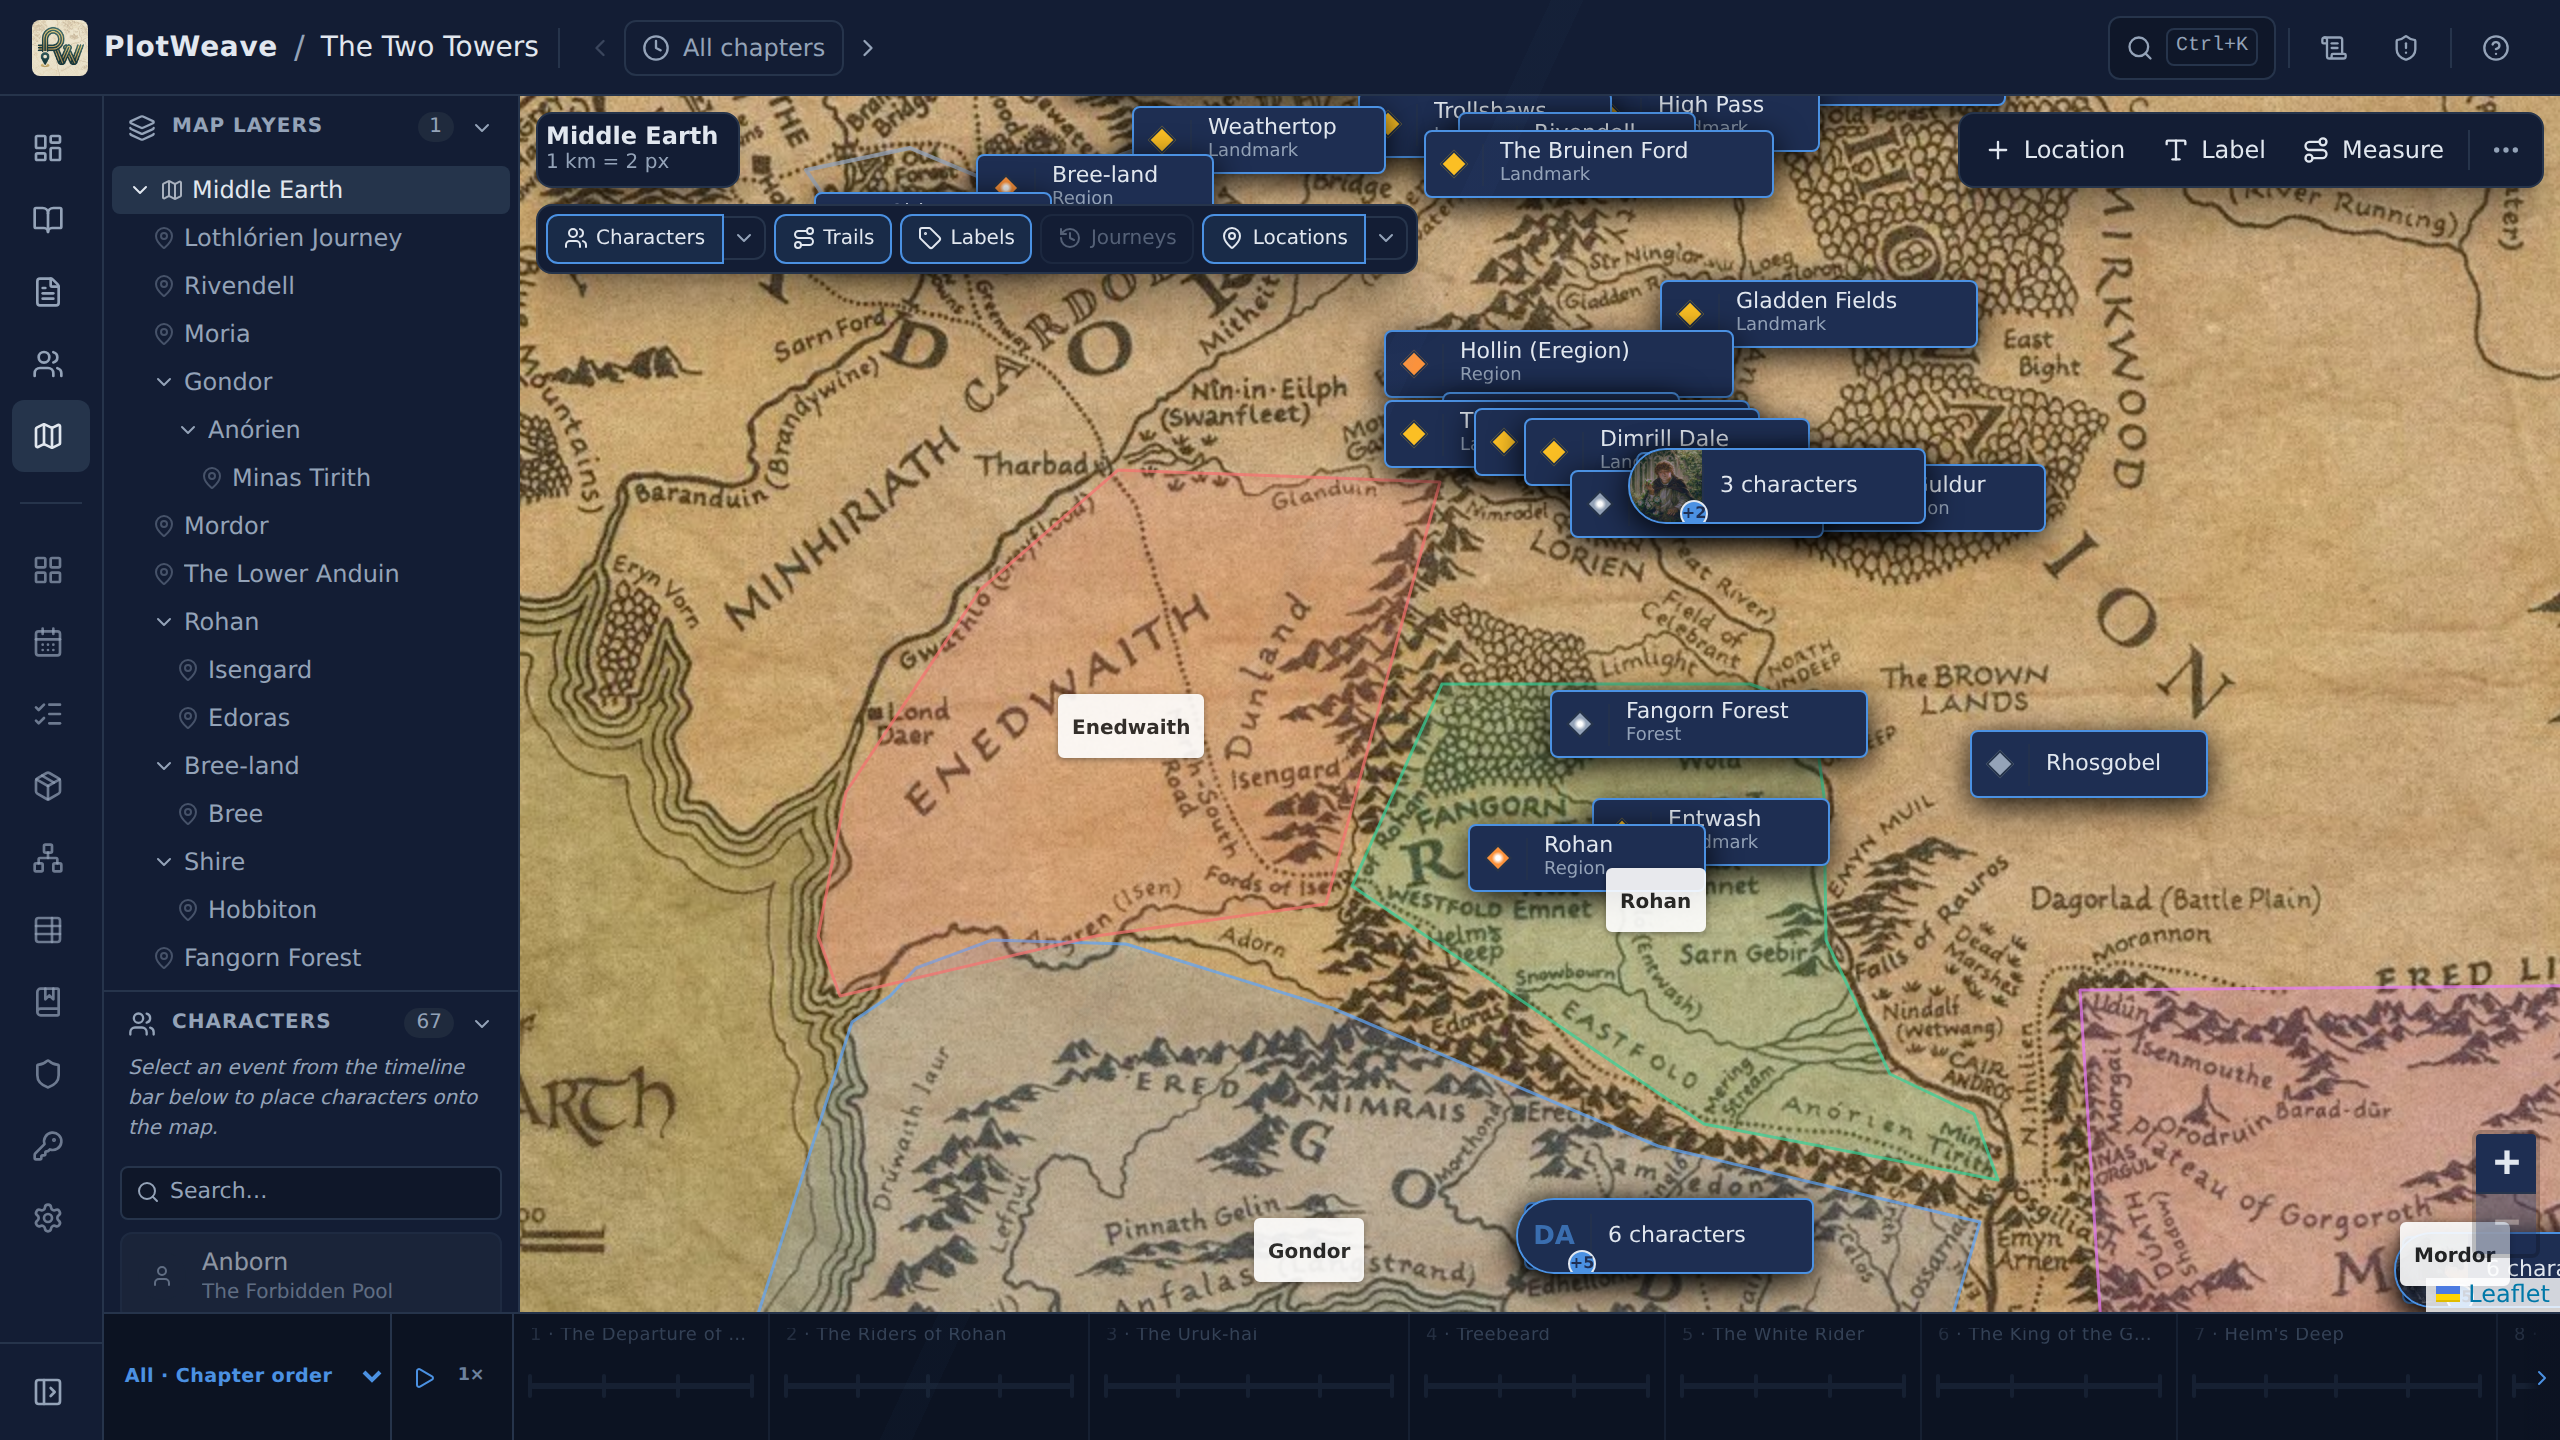
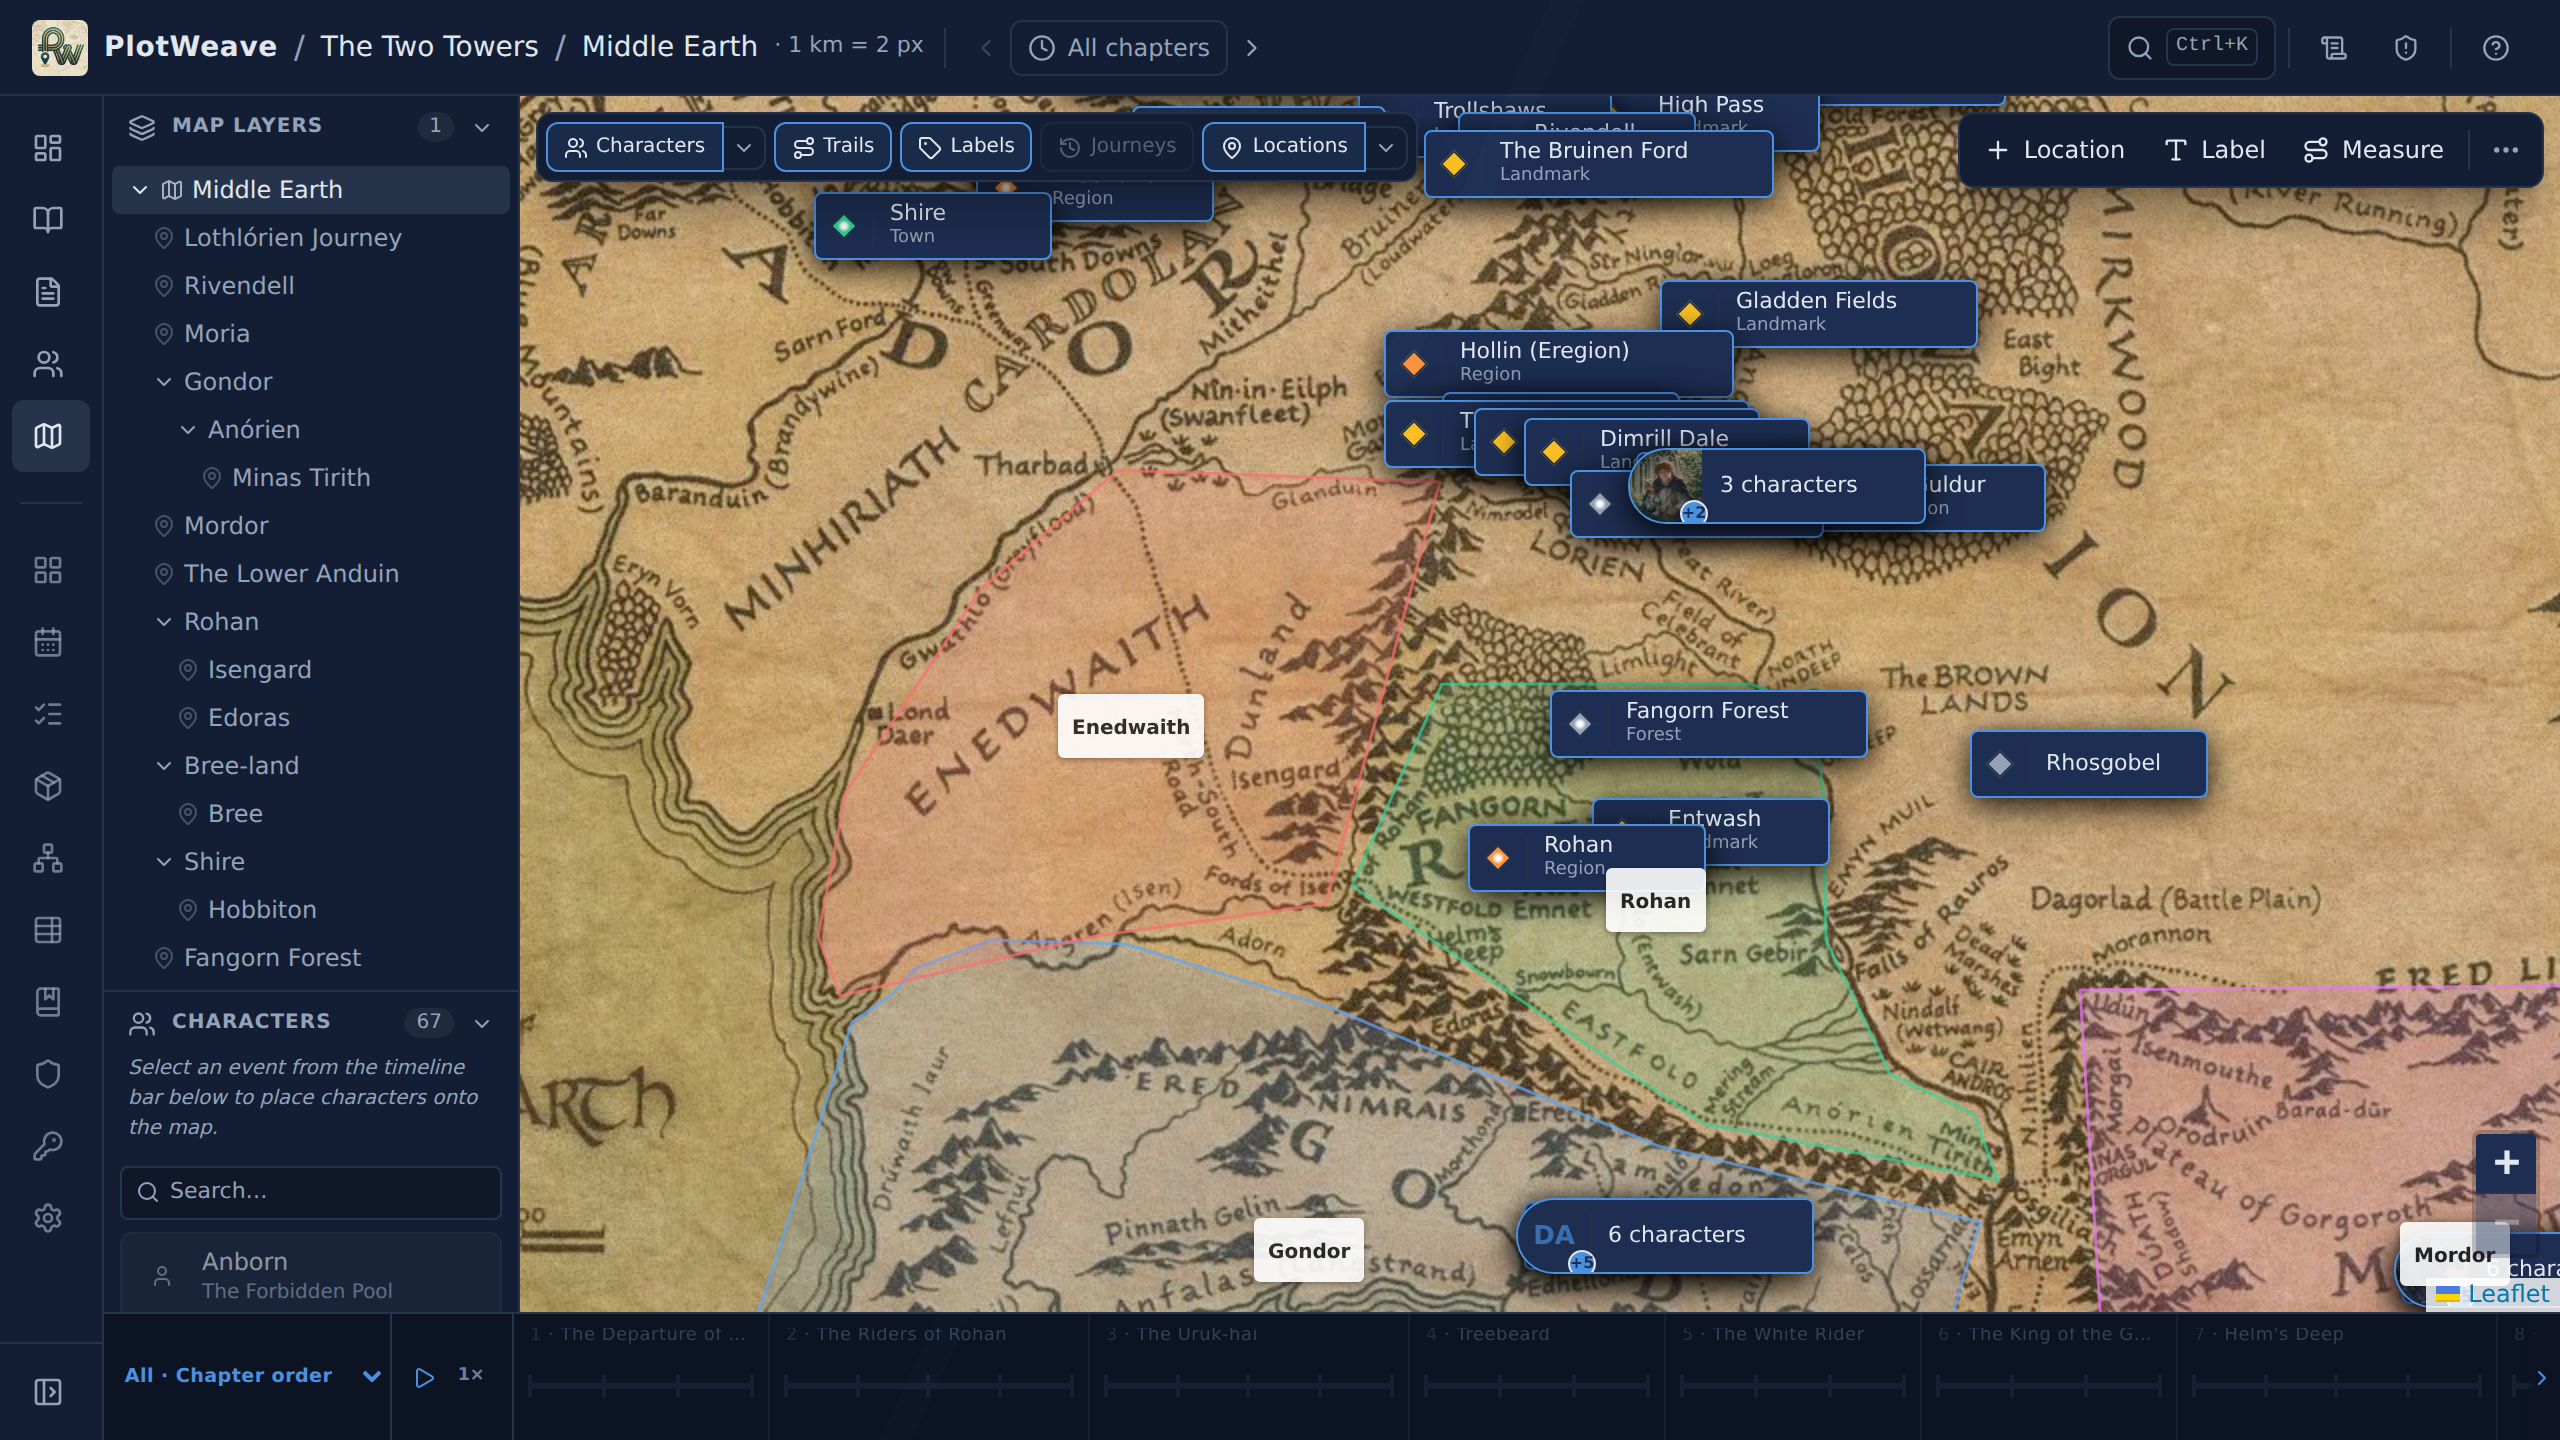
Move the map layer name and scale into the breadcrumb
The floating name chip was the last thing holding a corner of the map
canvas. Which layer is open and its scale belong to the app's location,
not the map surface, so they move into the TopBar breadcrumb:
PlotWeave / world / Middle Earth · 1 km = 2 px.

- The layer segment only renders on the maps route, and the scale
  segment only when the layer is calibrated (xl+, where there is room).
- MapInfoChip is now just the panels-drawer handle, and hides entirely
  on lg+ where the sidebar is a static column — so on desktop nothing
  but the Show chips and the toolbar sit over the canvas.

Also corrects a mistaken note in ROADMAP: a suspected mobile limitation
(an 85vw detail panel hiding the film strip) was measured and does not
occur. The strip draws above the panels, so it stays fully visible;
that note dated from when the panels were briefly raised to z-1120.

Guide and the three map screenshots updated for the breadcrumb.

Claude-Session: https://claude.ai/code/session_012HJuZ3q12imk2q9iq8d945

Changed region(s): [[0.1875, 0.0, 0.5625, 0.2188]]

diff --git a/src/components/TopBar.tsx b/src/components/TopBar.tsx
@@ -1,9 +1,10 @@
 import { useEffect, useState } from 'react'
 import { Search, ScrollText, ShieldAlert, HelpCircle, Menu, X } from 'lucide-react'
 import faviconUrl from '/favicon.png'
-import { useActiveWorldId, useAppStore } from '@/store'
+import { useActiveWorldId, useActiveMapLayerId, useAppStore } from '@/store'
 import { useWorld } from '@/db/hooks/useWorlds'
-import { useNavigate, NavLink } from 'react-router-dom'
+import { useMapLayer } from '@/db/hooks/useMapLayers'
+import { useNavigate, NavLink, useMatch } from 'react-router-dom'
 import { cn } from '@/lib/utils'
 import { TimeCursor } from './TimeCursor'
 import { navItems } from './navItems'
@@ -95,6 +96,14 @@ export function TopBar() {
   const navigate = useNavigate()
   const { setSearchOpen, setBriefOpen, setCheckerOpen, setHelpOpen } = useAppStore()
   const [navOpen, setNavOpen] = useState(false)
+  // On the map, the breadcrumb carries which layer is open and its scale, so
+  // the canvas doesn't have to give up a corner to a floating name chip.
+  const onMaps = !!useMatch('/worlds/:worldId/maps')
+  const activeMapLayerId = useActiveMapLayerId()
+  const mapLayer = useMapLayer(onMaps ? activeMapLayerId : null)
+  const mapScale = mapLayer?.scalePixelsPerUnit && mapLayer.scaleUnit
+    ? `1 ${mapLayer.scaleUnit} = ${Math.round(mapLayer.scalePixelsPerUnit)} px`
+    : null
 
   return (
     <header className="flex h-12 shrink-0 items-center gap-2 border-b border-[hsl(var(--border))] bg-[hsl(var(--card))] px-3 sm:px-4">
@@ -123,6 +132,22 @@ export function TopBar() {
           <>
             <span aria-hidden="true" className="hidden text-[hsl(var(--muted-foreground))] lg:inline">/</span>
             <span className="hidden max-w-[120px] truncate text-sm text-[hsl(var(--foreground))] lg:inline" title={world.name}>{world.name}</span>
+          </>
+        )}
+        {world && mapLayer && (
+          <>
+            <span aria-hidden="true" className="hidden text-[hsl(var(--muted-foreground))] lg:inline">/</span>
+            <span
+              className="hidden max-w-[160px] truncate text-sm text-[hsl(var(--foreground))] lg:inline"
+              title={mapScale ? `${mapLayer.name} — ${mapScale}` : mapLayer.name}
+            >
+              {mapLayer.name}
+            </span>
+            {mapScale && (
+              <span className="hidden shrink-0 text-[11px] text-[hsl(var(--muted-foreground))] xl:inline">
+                · {mapScale}
+              </span>
+            )}
           </>
         )}
         {world && worldId && (

diff --git a/src/features/maps/MapToolbar.tsx b/src/features/maps/MapToolbar.tsx
@@ -217,34 +217,23 @@ export function MapToolbar({
 }
 
 /**
- * Map identity, floated top-left. Replaces the old header row's name/scale
- * block — the sidebar already highlights the active layer, so this stays small.
+ * The drawer handle for the map's side panels, floated top-left on phones.
+ *
+ * Which layer is open and its scale live in the TopBar breadcrumb on `lg`+, so
+ * nothing but this button needs to sit on the canvas; below `lg` the breadcrumb
+ * is hidden and the sidebar drawer carries the layer name instead.
  */
-export function MapInfoChip({
-  layer, onOpenPanels,
-}: {
-  layer: MapLayer
-  onOpenPanels: () => void
-}) {
-  const hasScale = !!layer.scalePixelsPerUnit && !!layer.scaleUnit
+export function MapInfoChip({ onOpenPanels }: { onOpenPanels: () => void }) {
   return (
-    <div className={cn('pointer-events-auto flex items-center gap-2 py-1 pl-1 pr-2.5', FLOAT_PANEL)}>
+    <div className={cn('pointer-events-auto p-1 lg:hidden', FLOAT_PANEL)}>
       <button
         onClick={onOpenPanels}
         aria-label="Open map panels"
         title="Map panels"
-        className="pw-tap flex h-7 w-7 shrink-0 items-center justify-center rounded-md text-[hsl(var(--muted-foreground))] transition-colors hover:bg-[hsl(var(--muted))] hover:text-[hsl(var(--foreground))] lg:hidden"
+        className="pw-tap flex h-7 w-7 shrink-0 items-center justify-center rounded-md text-[hsl(var(--muted-foreground))] transition-colors hover:bg-[hsl(var(--muted))] hover:text-[hsl(var(--foreground))]"
       >
         <PanelLeft className="h-4 w-4" aria-hidden="true" />
       </button>
-      <div className="min-w-0">
-        <p className="truncate text-xs font-semibold leading-tight text-[hsl(var(--foreground))]">{layer.name}</p>
-        <p className="truncate text-[10px] leading-tight text-[hsl(var(--muted-foreground))]">
-          {hasScale
-            ? `1 ${layer.scaleUnit} = ${Math.round(layer.scalePixelsPerUnit!)} px`
-            : `${layer.imageWidth} × ${layer.imageHeight}`}
-        </p>
-      </div>
     </div>
   )
 }

diff --git a/e2e/mapControls.spec.ts b/e2e/mapControls.spec.ts
@@ -61,8 +61,31 @@ test('the canvas starts at the top of the map region, with controls floating ove
   // The two commands used while working a map are on the surface…
   await expect(page.getByRole('button', { name: 'Location', exact: true })).toBeVisible()
   await expect(page.getByRole('button', { name: 'Label', exact: true })).toBeVisible()
-  // …and the map's identity is a floating chip rather than a header row.
-  await expect(page.getByText('Middle Earth').last()).toBeVisible()
+  // …and the map's identity moved to the TopBar breadcrumb, so the canvas
+  // doesn't give up a corner to a name chip.
+  await expect(page.getByRole('banner').getByText('Middle Earth')).toBeVisible()
+})
+
+test('the breadcrumb names the open map layer and its scale', async ({ page }) => {
+  test.setTimeout(120000)
+  await setupMap(page)
+
+  const banner = page.getByRole('banner')
+  await expect(banner.getByText('Middle Earth')).toBeVisible()
+  // No scale set yet, so no scale segment.
+  await expect(banner.getByText(/= \d+ px/)).toHaveCount(0)
+
+  await page.evaluate(async () => {
+    const db = (window as { __pwdb?: any }).__pwdb
+    const layers = await db.mapLayers.toArray()
+    await db.mapLayers.update(layers[0].id, { scalePixelsPerUnit: 4, scaleUnit: 'km' })
+  })
+  await expect(banner.getByText('· 1 km = 4 px')).toBeVisible()
+
+  // It is scoped to the map: leaving the view drops the layer segment.
+  await page.getByRole('link', { name: /characters/i }).first().click()
+  await settleNav(page)
+  await expect(banner.getByText('Middle Earth')).toHaveCount(0)
 })
 
 test('rare map commands live behind the overflow menu', async ({ page }) => {
@@ -285,5 +308,5 @@ test('Measure surfaces only once the map has a scale', async ({ page }) => {
   })
 
   await expect(page.getByRole('button', { name: 'Measure' })).toBeVisible()
-  await expect(page.getByText('1 km = 4 px')).toBeVisible()
+  await expect(page.getByRole('banner').getByText('· 1 km = 4 px')).toBeVisible()
 })

diff --git a/src/features/maps/MapExplorerView.tsx b/src/features/maps/MapExplorerView.tsx
@@ -701,7 +701,7 @@ function MapView({ worldId, layerId }: { worldId: string; layerId: string }) {
             )}
           >
             <div className="flex min-w-0 max-w-full flex-col items-start gap-2">
-              <MapInfoChip layer={layer} onOpenPanels={() => setSidebarOpen(true)} />
+              <MapInfoChip onOpenPanels={() => setSidebarOpen(true)} />
               <MapFilterBar filters={mapFilters} characters={characters} onChange={setMapFilters} />
             </div>
             <MapToolbar

diff --git a/ROADMAP.md b/ROADMAP.md
@@ -540,8 +540,12 @@ What genuinely remains, ranked by value per effort:
     them), and the controls go click-through while placing or drawing so the
     canvas underneath stays reachable — with **Escape** added as the way out of
     every canvas-click mode.
-  - Follow-ups left open: move the map name into the TopBar breadcrumb; on
-    phones an open detail panel (85vw) still hides most of the film strip.
+  - The map name and scale then moved into the **TopBar breadcrumb**
+    (*PlotWeave / world / layer · 1 km = 2 px*), so the canvas gives up no
+    corner at all; on phones the floating chip is just the panels-drawer
+    handle. A suspected mobile limitation — an 85vw detail panel hiding the
+    film strip — was measured and does not occur: the strip draws above the
+    panels, so it stays fully visible.
 - [ ] **Proactive travel-day suggestion** — a per-event "suggest travelDays"
   affordance before any violation (the reactive one-click fix already exists).
 - [ ] **Export scope by scene status** — a `final`/`revised`-only filter for the

diff --git a/docs/GUIDE.md b/docs/GUIDE.md
@@ -639,7 +639,9 @@ images to a canvas — uploaded maps always export.)
 
 The map's own controls **float over the canvas** rather than sitting in header
 rows above it, so the map itself runs from the top of the view to the chapter
-bar. Top-left is the map's name and scale, with the **Show** chips beneath it —
+bar. Which layer is open — and its scale — reads from the breadcrumb at the top
+of the window (*PlotWeave / your world / Middle Earth · 1 km = 2 px*), leaving
+the canvas corners free. Top-left holds the **Show** chips —
 toggles for characters, trails, labels, journeys, and locations (the chevrons
 narrow those to particular characters or location types). Top-right holds the
 two commands you reach for while working a map, **+ Location** and **Label**,
